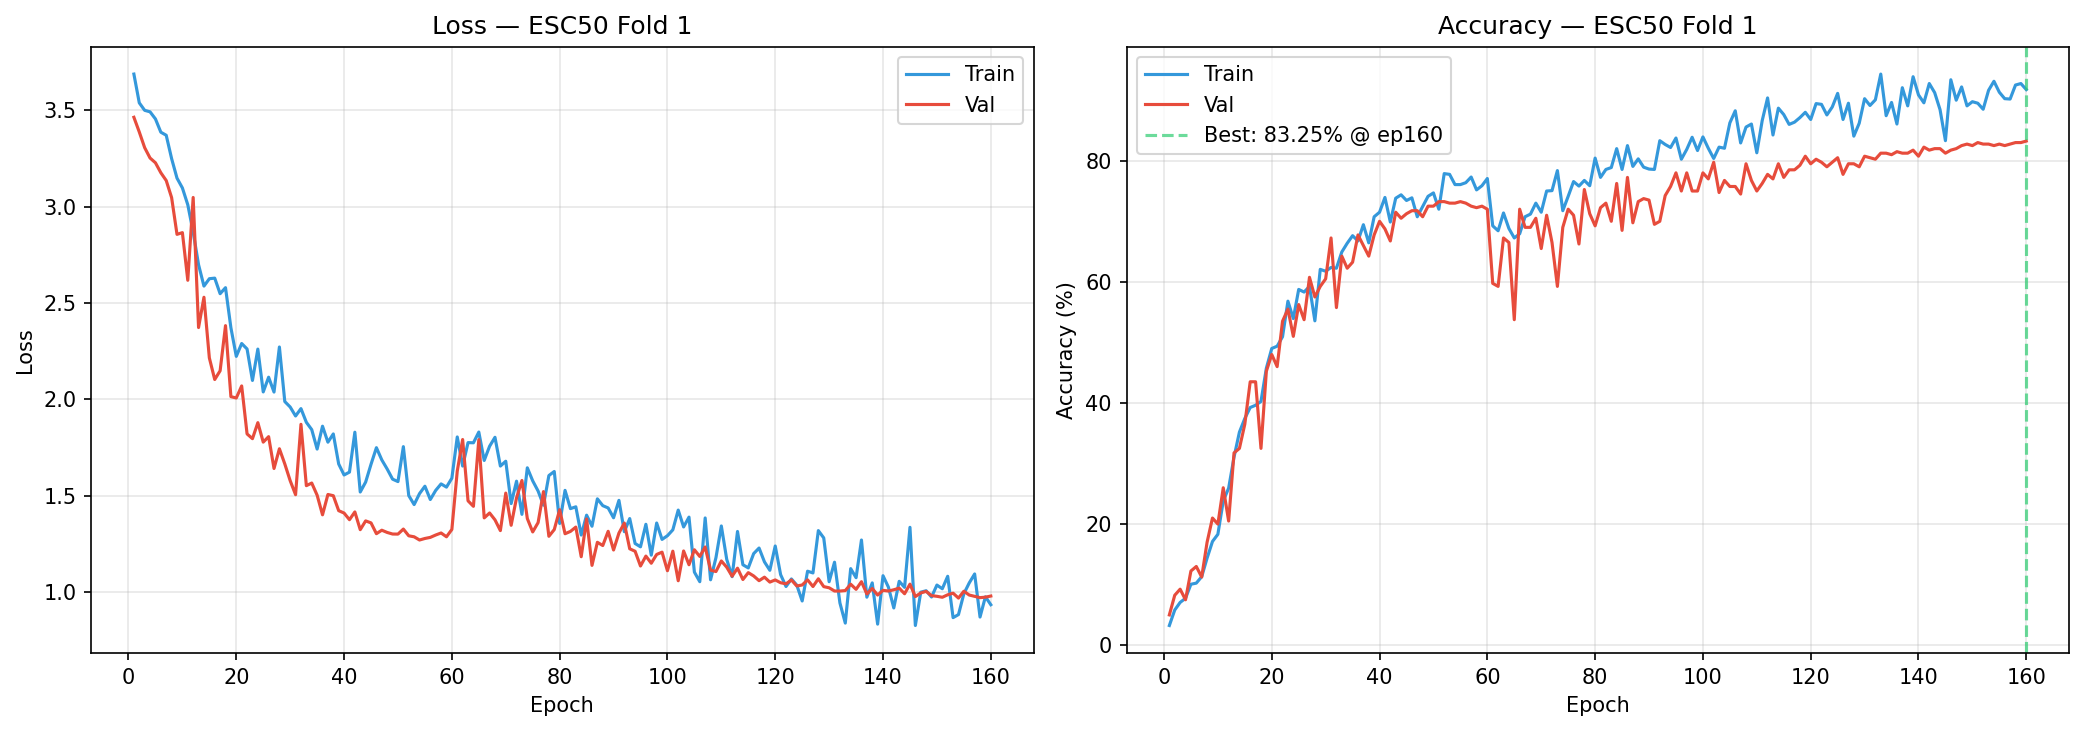
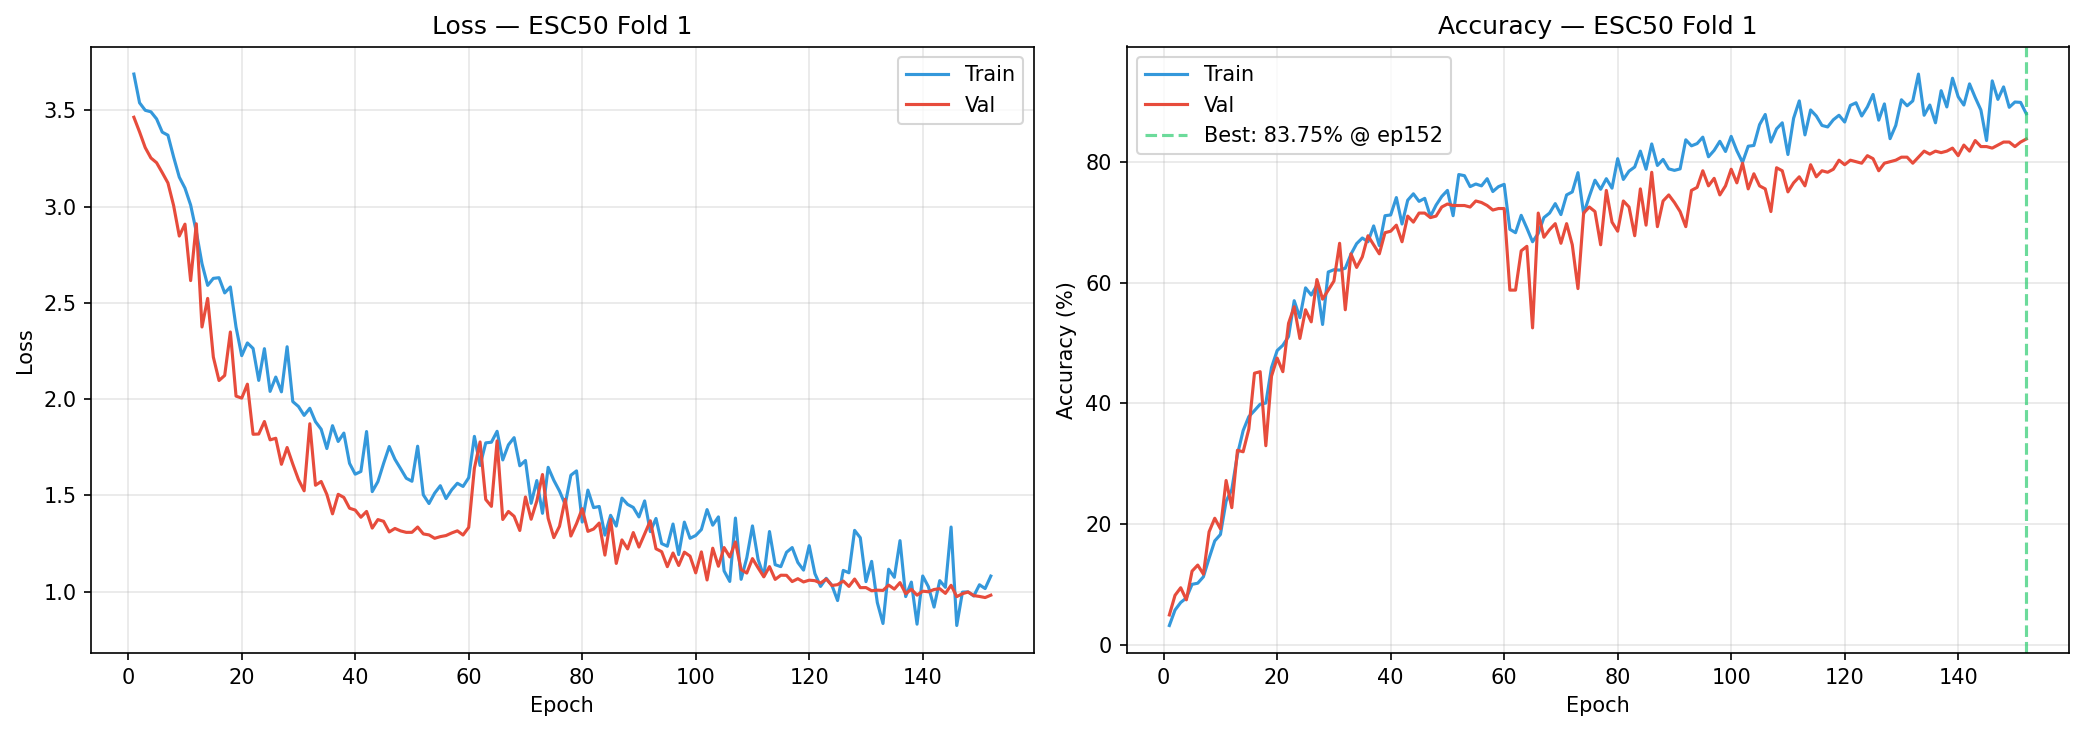
Results: 84.20% Mean Acc on ESC-50 with 300 epochs and 60% SWA

diff --git a/train.py b/train.py
@@ -59,6 +59,12 @@ def set_seed(seed: int = 42):
     # For fixed-size convolutions (like 128x128 mels), benchmark=True is much faster
     torch.backends.cudnn.deterministic = False
     torch.backends.cudnn.benchmark     = True
+    
+    # Enable TF32 for faster training on Ampere/Ada GPUs
+    if torch.cuda.is_available():
+        torch.backends.cuda.matmul.allow_tf32 = True
+        torch.backends.cudnn.allow_tf32 = True
+
 
 
 # ---------------------------------------------------------------------------
@@ -82,7 +88,7 @@ class TrainConfig:
     # Training
     BATCH_SIZE:    int   = 32
     NUM_WORKERS:   int   = 0
-    EPOCHS:        int   = 200
+    EPOCHS:        int   = 300
     GRAD_CLIP:     float = 5.0
 
     # Mixup
@@ -96,7 +102,7 @@ class TrainConfig:
     LABEL_SMOOTH:  float = 0.1
 
     # Early stopping
-    PATIENCE:      int   = 30       # epochs without val improvement
+    PATIENCE:      int   = 40       # epochs without val improvement
 
     # Checkpointing
     CHECKPOINT_DIR: str  = './checkpoints'
@@ -104,7 +110,7 @@ class TrainConfig:
 
     # Misc
     SEED:          int   = 42
-    CACHE:         bool  = False    # True if RAM > 16 GB (loads all spectrograms)
+    CACHE:         bool  = True     # True if RAM > 16 GB (loads all spectrograms)
     AMP:           bool  = True     # mixed precision (disable if CPU-only)
 
 
@@ -381,7 +387,7 @@ def train_fold(
     early_stop = EarlyStopping(patience=TCFG.PATIENCE)
 
     # ---- Stochastic Weight Averaging ----
-    swa_start = int(TCFG.EPOCHS * 0.75)  # Start SWA at 75% of training
+    swa_start = int(TCFG.EPOCHS * 0.60)  # Start SWA at 60% of training
     swa_model = AveragedModel(model)
     swa_scheduler = SWALR(optimizer, swa_lr=1e-5, anneal_epochs=5)
     swa_active = False
